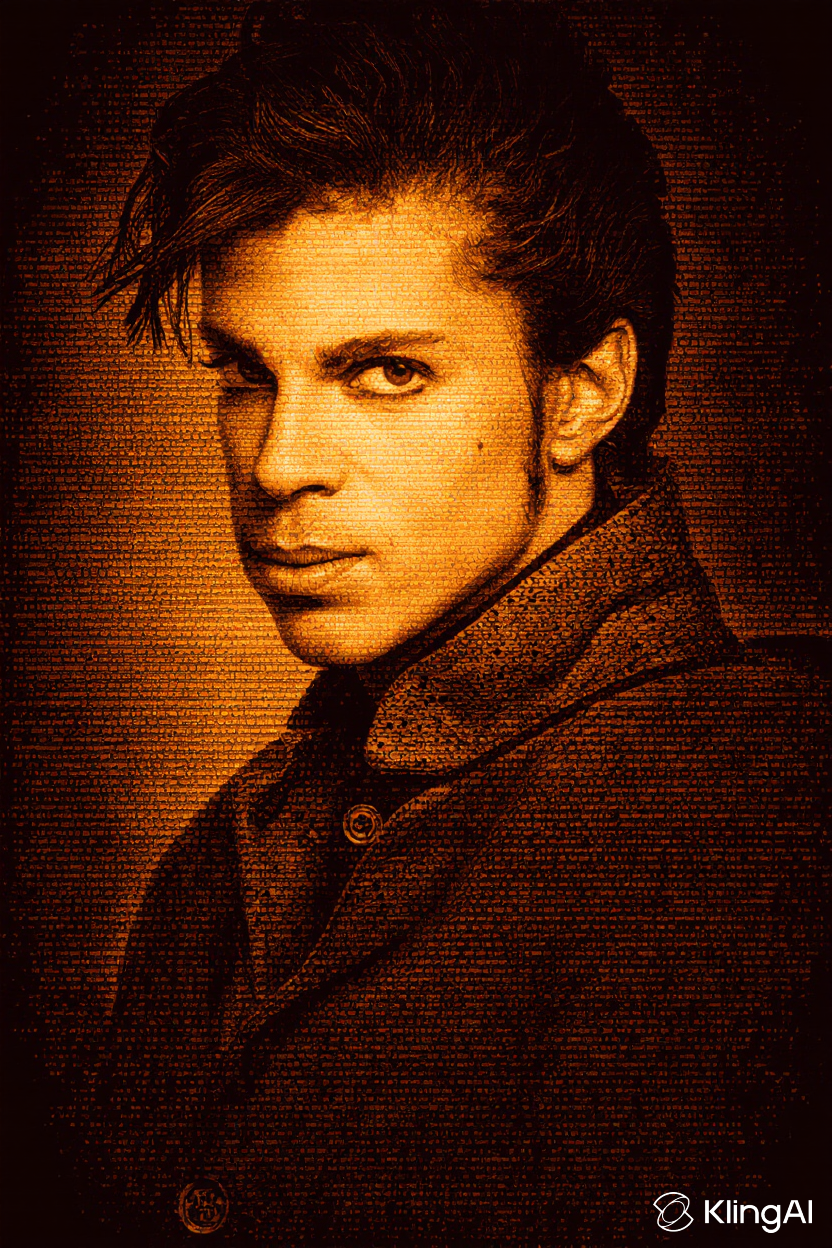
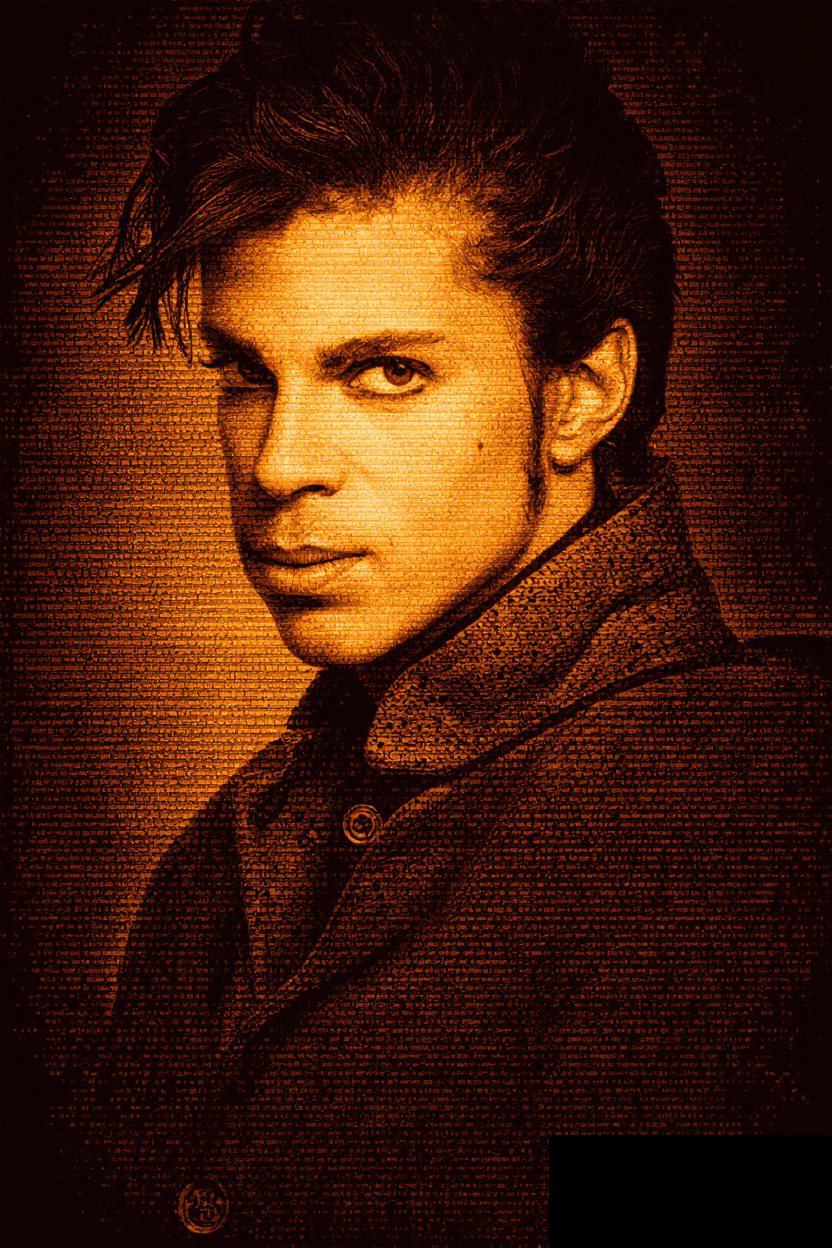
Add 6 portraits, watermark removal, thumbnail optimization
- Added borgnine, cavett, herzog, porridge, russell, steinbeck portraits
- Removed KlingAI watermarks via black masking on 8 portraits
- Generated 96px thumbnails for subject selection screen
  (60MB -> 370KB total page weight)
- Originals backed up to portrait-backups/

Changed region(s): [[0.6562, 0.9062, 0.9688, 1.0]]

diff --git a/index.html b/index.html
@@ -1382,23 +1382,23 @@
 <div id="subject-screen">
   <div class="subject-title">Select the Subject</div>
   <div class="subject-list">
-    <div class="subject-item" onclick="selectSubject('borgnine')"><div class="subject-portrait empty"></div><div><span>Ernest</span> Borgnine</div></div>
-    <div class="subject-item" onclick="selectSubject('bush')"><div class="subject-portrait"><img src="/portrait-bush.png" alt=""></div><div><span>Kate</span> Bush</div></div>
-    <div class="subject-item" onclick="selectSubject('cavett')"><div class="subject-portrait empty"></div><div><span>Dick</span> Cavett</div></div>
-    <div class="subject-item" onclick="selectSubject('cruise')"><div class="subject-portrait"><img src="/portrait-cruise.png" alt=""></div><div><span>Tom</span> Cruise</div></div>
-    <div class="subject-item" onclick="selectSubject('curtis')"><div class="subject-portrait"><img src="/portrait-curtis.png" alt=""></div><div><span>Ian</span> Curtis</div></div>
-    <div class="subject-item" onclick="selectSubject('dali')"><div class="subject-portrait"><img src="/portrait-dali.png" alt=""></div><div><span>Salvador</span> Dali</div></div>
-    <div class="subject-item" onclick="selectSubject('gabriel')"><div class="subject-portrait"><img src="/portrait-gabriel.png" alt=""></div><div><span>Peter</span> Gabriel</div></div>
-    <div class="subject-item" onclick="selectSubject('herzog')"><div class="subject-portrait empty"></div><div><span>Werner</span> Herzog</div></div>
-    <div class="subject-item" onclick="selectSubject('lynch')"><div class="subject-portrait"><img src="/portrait-lynch.png" alt=""></div><div><span>David</span> Lynch</div></div>
-    <div class="subject-item" onclick="selectSubject('prince')"><div class="subject-portrait"><img src="/portrait-prince.png" alt=""></div><div><span>Prince</span></div></div>
-    <div class="subject-item" onclick="selectSubject('nixon')"><div class="subject-portrait"><img src="/portrait-nixon.png" alt=""></div><div><span>Richard</span> Nixon</div></div>
-    <div class="subject-item" onclick="selectSubject('porridge')"><div class="subject-portrait empty"></div><div><span>Genesis</span> P-Orridge</div></div>
-    <div class="subject-item" onclick="selectSubject('russell')"><div class="subject-portrait empty"></div><div><span>Ken</span> Russell</div></div>
-    <div class="subject-item" onclick="selectSubject('serling')"><div class="subject-portrait"><img src="/portrait-serling.png" alt=""></div><div><span>Rod</span> Serling</div></div>
-    <div class="subject-item" onclick="selectSubject('steinbeck')"><div class="subject-portrait empty"></div><div><span>John</span> Steinbeck</div></div>
-    <div class="subject-item" onclick="selectSubject('trump')"><div class="subject-portrait"><img src="/portrait.png" alt=""></div><div><span>Donald</span> Trump</div></div>
-    <div class="subject-item" onclick="selectSubject('katt_williams')"><div class="subject-portrait"><img src="/portrait-katt_williams.png" alt=""></div><div><span>Katt</span> Williams</div></div>
+    <div class="subject-item" onclick="selectSubject('borgnine')"><div class="subject-portrait"><img src="/thumb-borgnine.png" alt=""></div><div><span>Ernest</span> Borgnine</div></div>
+    <div class="subject-item" onclick="selectSubject('bush')"><div class="subject-portrait"><img src="/thumb-bush.png" alt=""></div><div><span>Kate</span> Bush</div></div>
+    <div class="subject-item" onclick="selectSubject('cavett')"><div class="subject-portrait"><img src="/thumb-cavett.png" alt=""></div><div><span>Dick</span> Cavett</div></div>
+    <div class="subject-item" onclick="selectSubject('cruise')"><div class="subject-portrait"><img src="/thumb-cruise.png" alt=""></div><div><span>Tom</span> Cruise</div></div>
+    <div class="subject-item" onclick="selectSubject('curtis')"><div class="subject-portrait"><img src="/thumb-curtis.png" alt=""></div><div><span>Ian</span> Curtis</div></div>
+    <div class="subject-item" onclick="selectSubject('dali')"><div class="subject-portrait"><img src="/thumb-dali.png" alt=""></div><div><span>Salvador</span> Dali</div></div>
+    <div class="subject-item" onclick="selectSubject('gabriel')"><div class="subject-portrait"><img src="/thumb-gabriel.png" alt=""></div><div><span>Peter</span> Gabriel</div></div>
+    <div class="subject-item" onclick="selectSubject('herzog')"><div class="subject-portrait"><img src="/thumb-herzog.png" alt=""></div><div><span>Werner</span> Herzog</div></div>
+    <div class="subject-item" onclick="selectSubject('lynch')"><div class="subject-portrait"><img src="/thumb-lynch.png" alt=""></div><div><span>David</span> Lynch</div></div>
+    <div class="subject-item" onclick="selectSubject('prince')"><div class="subject-portrait"><img src="/thumb-prince.png" alt=""></div><div><span>Prince</span></div></div>
+    <div class="subject-item" onclick="selectSubject('nixon')"><div class="subject-portrait"><img src="/thumb-nixon.png" alt=""></div><div><span>Richard</span> Nixon</div></div>
+    <div class="subject-item" onclick="selectSubject('porridge')"><div class="subject-portrait"><img src="/thumb-porridge.png" alt=""></div><div><span>Genesis</span> P-Orridge</div></div>
+    <div class="subject-item" onclick="selectSubject('russell')"><div class="subject-portrait"><img src="/thumb-russell.png" alt=""></div><div><span>Ken</span> Russell</div></div>
+    <div class="subject-item" onclick="selectSubject('serling')"><div class="subject-portrait"><img src="/thumb-serling.png" alt=""></div><div><span>Rod</span> Serling</div></div>
+    <div class="subject-item" onclick="selectSubject('steinbeck')"><div class="subject-portrait"><img src="/thumb-steinbeck.png" alt=""></div><div><span>John</span> Steinbeck</div></div>
+    <div class="subject-item" onclick="selectSubject('trump')"><div class="subject-portrait"><img src="/thumb-trump.png" alt=""></div><div><span>Donald</span> Trump</div></div>
+    <div class="subject-item" onclick="selectSubject('katt_williams')"><div class="subject-portrait"><img src="/thumb-katt_williams.png" alt=""></div><div><span>Katt</span> Williams</div></div>
   </div>
 </div>
 
@@ -4343,18 +4343,18 @@
     nixon: '/portrait-nixon.png',
     dali: '/portrait-dali.png',
     curtis: '/portrait-curtis.png',
-    herzog: '',
+    herzog: '/portrait-herzog.png',
     bush: '/portrait-bush.png',
     cruise: '/portrait-cruise.png',
     gabriel: '/portrait-gabriel.png',
-    steinbeck: '',
+    steinbeck: '/portrait-steinbeck.png',
     prince: '/portrait-prince.png',
-    porridge: '',
-    russell: '',
+    porridge: '/portrait-porridge.png',
+    russell: '/portrait-russell.png',
     serling: '/portrait-serling.png',
     katt_williams: '/portrait-katt_williams.png',
-    borgnine: '',
-    cavett: '',
+    borgnine: '/portrait-borgnine.png',
+    cavett: '/portrait-cavett.png',
     lynch: '/portrait-lynch.png',
   };
 
